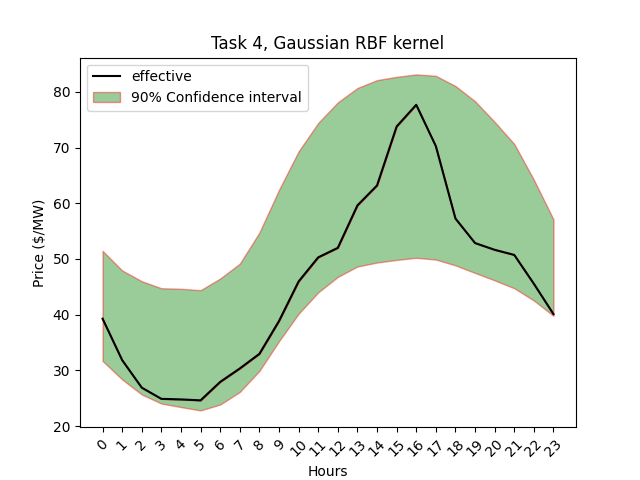
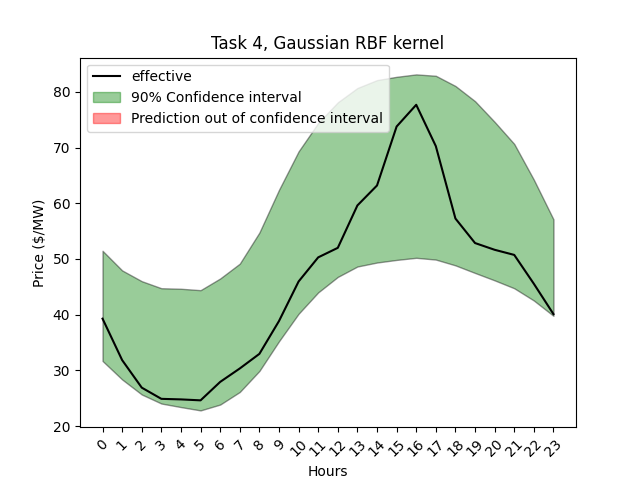
made style consistent for remaining plots

diff --git a/utils/miscellaneous.py b/utils/miscellaneous.py
@@ -4,6 +4,8 @@ from datetime import datetime
 import matplotlib.pyplot as plt
 import matplotlib.colors as colors
 import matplotlib.cm as cm
+from matplotlib.lines import Line2D
+import matplotlib.patches as mpatches
 
 import numpy as np
 
@@ -176,16 +178,27 @@ def load_plot_ci(df, y):
     
     plt.figure(figsize=(15,5))
     # plot quantile range
-    plt.plot(y,color="black", label="effective")
+    plt.plot(y,color="black")
     
-    plt.fill_between(x,y_predict_5,y, alpha=0.4, color="green", edgecolor="red")
-    plt.fill_between(x,y,y_predict_95, alpha=0.4, color="green", edgecolor="red", label="90% Confidence interval")
+    plt.fill_between(x,y_predict_95, y_predict_5, alpha=0.4, color="green", edgecolor="black", interpolate=True)
+    plt.fill_between(x,y_predict_95,y,where=y_predict_95<y, alpha=0.4, color="red", edgecolor="black", interpolate=True)
+    plt.fill_between(x,y, y_predict_5, where=y_predict_5>=y, alpha=0.4, color="red", edgecolor="black",interpolate=True)
     
     plt.xticks(ticks=tick_array, labels=labels, rotation=45)
     plt.xlabel("Days")
     plt.ylabel("Load (MW)")
 
-    plt.legend()
+    # handles for legend
+    handles, labels = plt.gca().get_legend_handles_labels()
+    # create manual symbols for legend
+    patch1 = mpatches.Patch(color='green', label='90% Confidence interval',alpha=0.4)   
+    patch2 = mpatches.Patch(color='red', label='Prediction out of confidence interval',alpha=0.4)   
+    line = Line2D([0],[0],label="effective", color='black')
+
+    # add manual symbols to auto legend
+    handles.extend([line, patch1,patch2])
+
+    plt.legend(handles=handles)
     return None
 
 
@@ -201,14 +214,25 @@ def price_plot_ci(df, y):
     tick_array = [i for i in range(0,23+1)]
     
     # plot quantile range
-    plt.plot(y,color="black", label="effective")
-    
-    plt.fill_between(x,y_predict_5,y, alpha=0.4, color="green", edgecolor="red")
-    plt.fill_between(x,y,y_predict_95, alpha=0.4, color="green", edgecolor="red", label="90% Confidence interval")
+    plt.plot(y,color="black")
+
+    plt.fill_between(x,y_predict_95, y_predict_5, alpha=0.4, color="green", edgecolor="black", interpolate=True)
+    plt.fill_between(x,y_predict_95,y,where=y_predict_95<y, alpha=0.4, color="red", edgecolor="black", interpolate=True)
+    plt.fill_between(x,y, y_predict_5, where=y_predict_5>=y, alpha=0.4, color="red", edgecolor="black",interpolate=True)
     
     plt.xticks(ticks=tick_array, rotation=45)
     plt.xlabel("Hours")
     plt.ylabel("Price ($/MW)")
 
-    plt.legend()
+    # handles for legend
+    handles, labels = plt.gca().get_legend_handles_labels()
+    # create manual symbols for legend
+    patch1 = mpatches.Patch(color='green', label='90% Confidence interval',alpha=0.4)   
+    patch2 = mpatches.Patch(color='red', label='Prediction out of confidence interval',alpha=0.4)   
+    line = Line2D([0],[0],label="effective", color='black')
+
+    # add manual symbols to auto legend
+    handles.extend([line, patch1,patch2])
+
+    plt.legend(handles=handles)
     return None

diff --git a/train_test/Price/price_qr_gefcom2014_test.py b/train_test/Price/price_qr_gefcom2014_test.py
@@ -76,7 +76,6 @@ def test(ith):
     price_plot_ci(reo, y_test)
     plt.title(f"Task {ith}, {ktype_title[ktype]} kernel")
     plt.savefig(f"plots/Price/price_task_{ith}_{ktype}.png")
-    plt.legend()
     plt.show()
 
     ans=pinball_tot/len(quantiles)

diff --git a/train_test/Load/load_qr_gefcom2014_test.py b/train_test/Load/load_qr_gefcom2014_test.py
@@ -42,7 +42,7 @@ def test(ith):
 
     pinball_tot=0
 
-    ktype="gaussian_rbf"
+    ktype="a_laplacian"
     
     # predict
     df_template_submission=pd.read_csv(f"Data/Load/Task {ith}/L{ith}-benchmark.csv")
